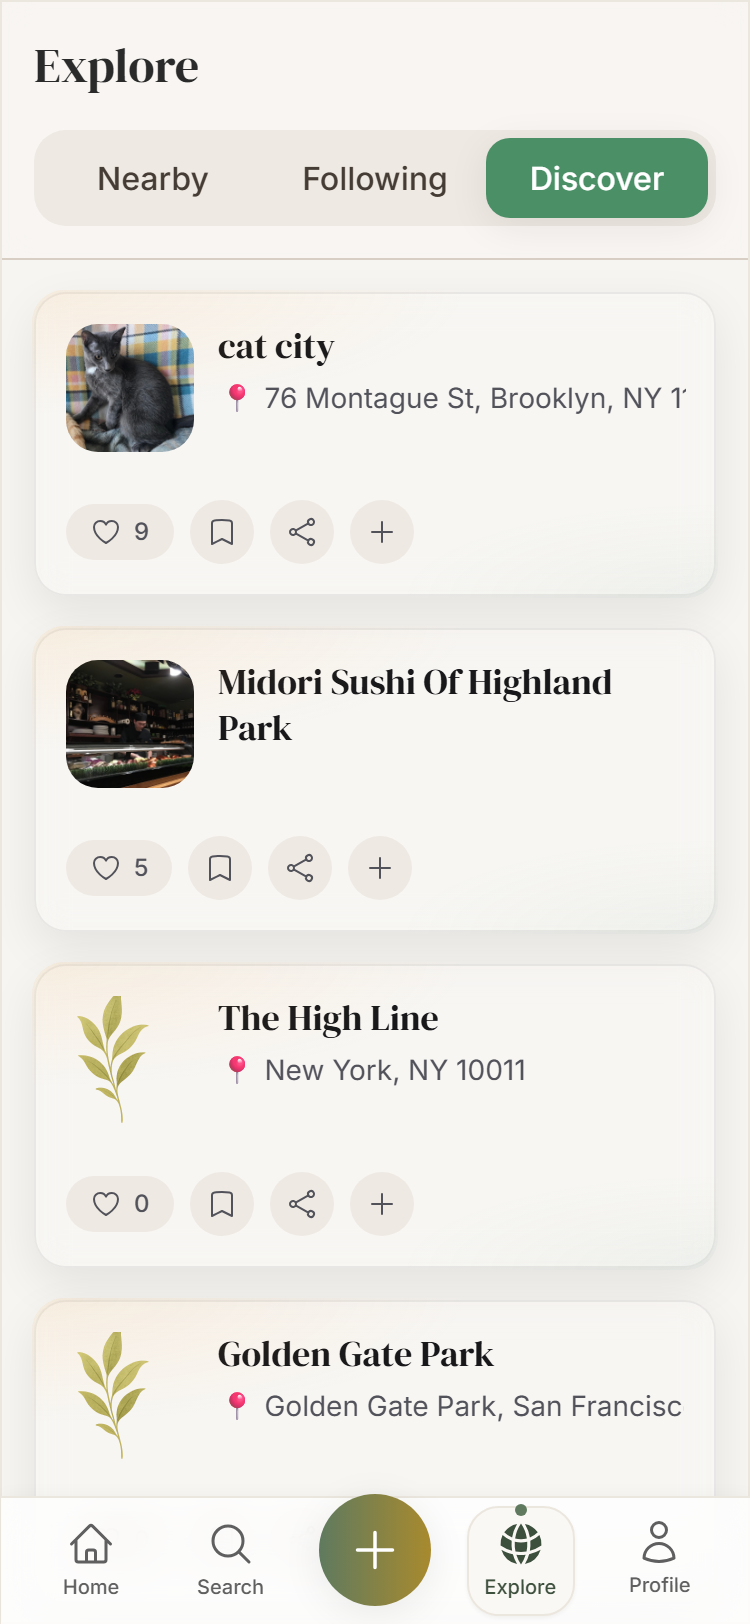
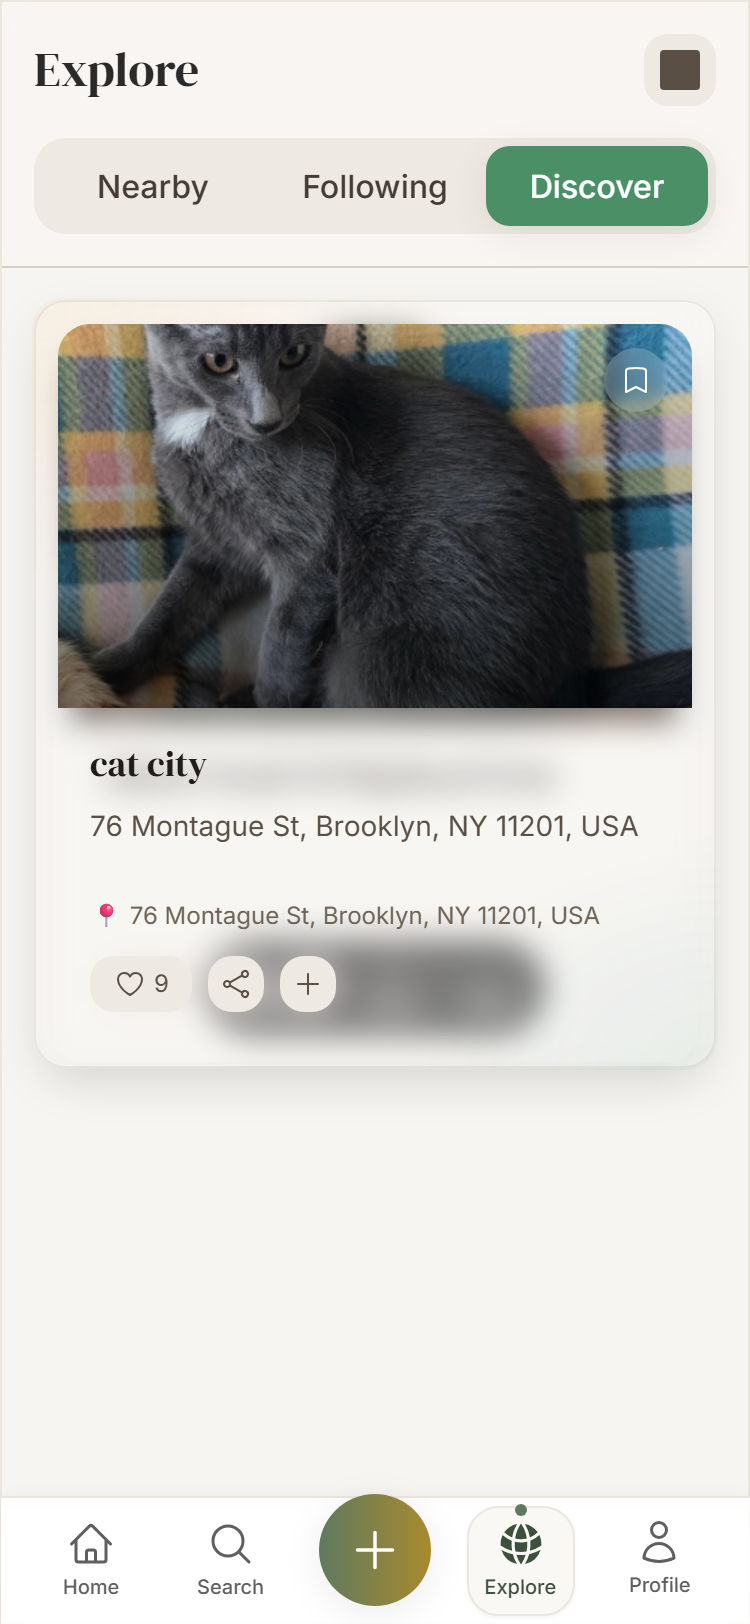
feat: Wire up Big Move - Make Deck default in Explore, unify feature flags
Changes:
- âœ… Single source of truth: src/config/featureFlags.ts (as const)
- âœ… Explore defaults to Deck view (persists preference to localStorage)
- âœ… Removed async Firestore flags, use static config only
- âœ… Updated screenshots with Deck view

Acceptance:
- âœ… /explore opens Deck by default (list toggle works)
- âœ… View mode persists across sessions
- âœ… Feature flags are const and imported from one place
- âœ… Status bundle updated (SNAPSHOT + screenshots)

Files:
- src/config/featureFlags.ts: Added 'as const'
- src/pages/Explore.tsx: Default to deck, persist mode to localStorage
- docs/ui-status/SNAPSHOT.md: Updated timestamp
- docs/ui-status/screenshots/explore.png: Fresh capture showing deck

diff --git a/src/pages/Explore.tsx b/src/pages/Explore.tsx
@@ -6,7 +6,7 @@ import { StackDeck } from '../components/explore/StackDeck';
 import { useAuth } from '../contexts/AuthContext';
 import { useNavigation } from '../contexts/NavigationContext';
 import { firebaseDataService } from '../services/firebaseDataService';
-import { getFlags } from '../services/featureFlags';
+import { featureFlags } from '../config/featureFlags';
 import type { Place, List, User } from '../types/index.js';
 
 interface ExploreItem {
@@ -27,25 +27,26 @@ const Explore = () => {
   const [activeTab, setActiveTab] = useState<'nearby' | 'following' | 'discover'>('discover');
   const [items, setItems] = useState<ExploreItem[]>([]);
   const [isLoading, setIsLoading] = useState(true);
-  const [viewMode, setViewMode] = useState<'list' | 'deck'>('list');
-  const [featureFlags, setFeatureFlags] = useState<{ explore_stacks?: boolean }>({});
+  
+  // Default to deck if flag is on, otherwise use localStorage preference or "list"
+  const [viewMode, setViewMode] = useState<'list' | 'deck'>(() => {
+    if (featureFlags.explore_stacks) {
+      const saved = localStorage.getItem('exploreMode') as 'list' | 'deck' | null;
+      return saved || 'deck';
+    }
+    return 'list';
+  });
+
+  // Persist view mode preference
+  useEffect(() => {
+    localStorage.setItem('exploreMode', viewMode);
+  }, [viewMode]);
 
   useEffect(() => {
     if (currentUser) {
       loadExploreItems();
     }
   }, [currentUser, activeTab]);
-
-  useEffect(() => {
-    const loadFeatureFlags = async () => {
-      const flags = await getFlags();
-      setFeatureFlags(flags);
-      if (flags.explore_stacks) {
-        setViewMode('deck');
-      }
-    };
-    loadFeatureFlags();
-  }, []);
 
   const loadExploreItems = async () => {
     setIsLoading(true);

diff --git a/src/config/featureFlags.ts b/src/config/featureFlags.ts
@@ -4,4 +4,4 @@ export const featureFlags = {
   hide_reels_tab: true,     // Remove Reels from bottom nav
   keep_reels_route: false,  // If true, /reels accessible via deep link only
   search_v2: true           // Gate the redesigned Search page
-};
+} as const;

diff --git a/docs/ui-status/SNAPSHOT.md b/docs/ui-status/SNAPSHOT.md
@@ -96,6 +96,8 @@ See `/docs/ui-status/screenshots/` for visual reference:
 
 ---
 
+---
+
 ## 🎨 Design Principles
 
 ### Cozy, Usable, Pretty
